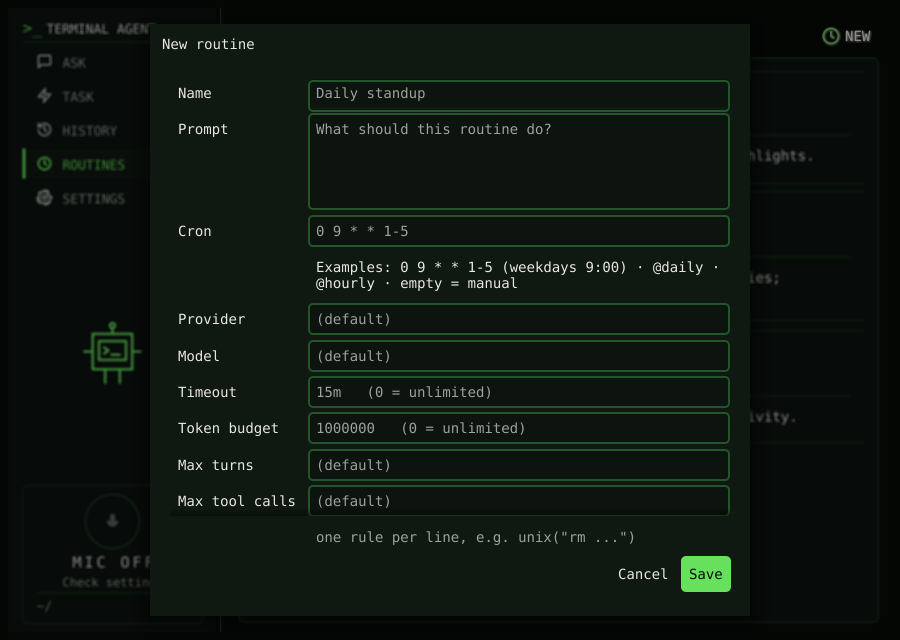
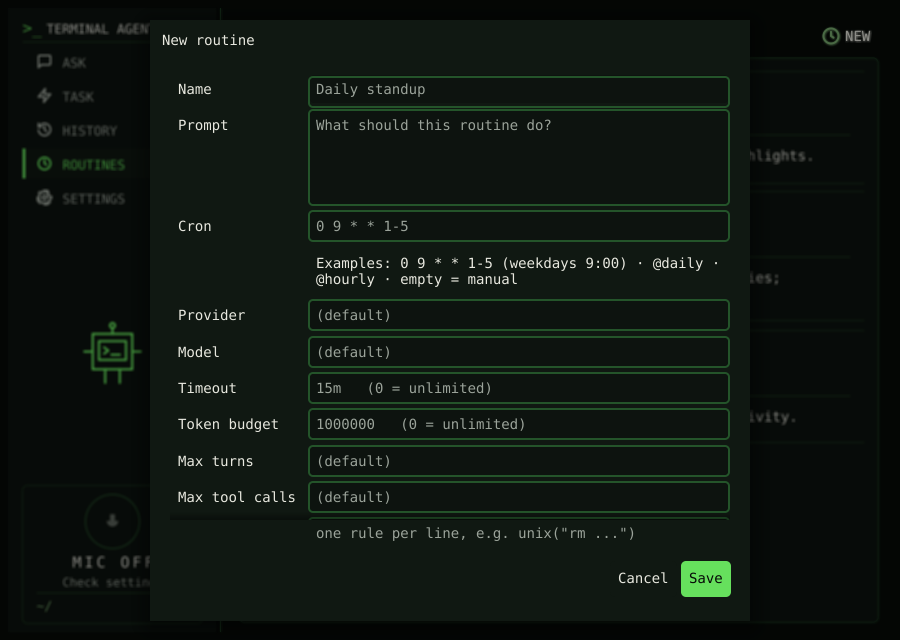
fix(routines): lean form footer and top-right detail actions
- Create/edit form: size the field scroll to the fields' natural height (capped
  to the window) so the dialog hugs its content; the error and Save/Cancel are
  pinned at the bottom with no wasted gap, and a tall form scrolls.
- Routine detail: move the Run now / Disable / Edit / Delete actions to the
  top-right of the header (beside the name); drop the bottom action bar.

Screenshots refreshed.

diff --git a/internal/gui/routine.go b/internal/gui/routine.go
@@ -136,11 +136,13 @@ func (g *App) showRoutineDetail(view appservice.RoutineView) {
 	palette := currentBrandPalette()
 	r := view.Routine
 
-	// Emphasized routine name (large, accent), with the status dot.
+	// Emphasized routine name (large, accent) with the status dot on the left, and
+	// the routine actions in the top-right corner of the header.
 	title := canvas.NewText(routineTitle(r), palette.accentGreen)
 	title.TextStyle = fyne.TextStyle{Bold: true, Monospace: true}
 	title.TextSize = theme.TextSize() + 5
-	titleRow := container.NewHBox(vCenter(newStatusDot(routineStatusColor(view.Status))), vCenter(title))
+	titleLeft := container.NewHBox(vCenter(newStatusDot(routineStatusColor(view.Status))), vCenter(title))
+	header := container.NewBorder(nil, nil, titleLeft, vCenter(g.routineHeaderActions(view)), nil)
 
 	settings := fmt.Sprintf(
 		"Status: %s\nSchedule: %s\nProvider / Model: %s / %s\nTimeout: %s\nTokens: %s\nTools: %s",
@@ -164,7 +166,7 @@ func (g *App) showRoutineDetail(view appservice.RoutineView) {
 	promptBox := borderedBox(container.NewPadded(promptBody), palette.borderBright)
 
 	objects := []fyne.CanvasObject{
-		titleRow,
+		header,
 		settingsLabel,
 		brandSeparator(),
 		brandSectionLabel("PROMPT"),
@@ -173,7 +175,6 @@ func (g *App) showRoutineDetail(view appservice.RoutineView) {
 		brandSectionLabel("RUN LOGS"),
 	}
 	objects = append(objects, g.routineLogList(r.ID)...)
-	objects = append(objects, brandSeparator(), g.routineActionBar(view))
 
 	g.popup.presentRoutineDetail(container.NewVBox(objects...))
 }
@@ -202,7 +203,9 @@ func (g *App) routineLogList(id string) []fyne.CanvasObject {
 	return rows
 }
 
-func (g *App) routineActionBar(view appservice.RoutineView) fyne.CanvasObject {
+// routineHeaderActions builds the routine action buttons shown in the top-right
+// of the detail header.
+func (g *App) routineHeaderActions(view appservice.RoutineView) fyne.CanvasObject {
 	r := view.Routine
 	runButton := widget.NewButton("Run now", func() { g.runRoutineNow(r.ID) })
 	runButton.Importance = widget.HighImportance
@@ -224,7 +227,7 @@ func (g *App) routineActionBar(view appservice.RoutineView) fyne.CanvasObject {
 	deleteButton := widget.NewButton("Delete", func() { g.confirmDeleteRoutine(r.ID) })
 	deleteButton.Importance = widget.DangerImportance
 
-	return container.NewHBox(runButton, toggleButton, editButton, layout.NewSpacer(), deleteButton)
+	return container.NewHBox(runButton, toggleButton, editButton, deleteButton)
 }
 
 func (g *App) openRoutineLog(ref appservice.RoutineLogRef) {
@@ -436,17 +439,20 @@ func (g *App) showRoutineForm(existing *routines.Routine) {
 	cancel := widget.NewButton("Cancel", func() { dlg.Hide() })
 	footer := container.NewBorder(nil, nil, nil, container.NewHBox(cancel, save))
 
-	// Scroll only the fields; keep the error message and Save/Cancel pinned at the
-	// bottom so they are always reachable on a short window.
-	fields := container.NewVScroll(container.NewVBox(form, toolsField, enabled))
+	// Pin the error + Save/Cancel at the bottom and scroll only the fields. Sizing
+	// the field scroll to the fields' natural height (capped to the window) keeps
+	// the dialog lean (no wasted gap) while the footer stays visible; a tall form
+	// scrolls instead of overflowing.
+	fields := container.NewVBox(form, toolsField, enabled)
 	bottom := container.NewVBox(errorLabel, footer)
-	content := container.NewBorder(nil, bottom, nil, nil, fields)
+	scroll := container.NewVScroll(fields)
+	scroll.SetMinSize(fyne.NewSize(560, routineScrollHeight(win, fields, bottom)))
 	title := "New routine"
 	if isEdit {
 		title = "Edit routine"
 	}
-	dlg = dialog.NewCustomWithoutButtons(title, content, win)
-	dlg.Resize(fyne.NewSize(600, routineFormHeight(win)))
+	dlg = dialog.NewCustomWithoutButtons(title, container.NewBorder(nil, bottom, nil, nil, scroll), win)
+	dlg.Resize(fyne.NewSize(600, 0))
 	dlg.SetOnClosed(g.FocusInput)
 	dlg.Show()
 }
@@ -521,11 +527,12 @@ func (g *App) showRoutineDefaultsForm() {
 	cancel := widget.NewButton("Cancel", func() { dlg.Hide() })
 	footer := container.NewBorder(nil, nil, nil, container.NewHBox(cancel, save))
 
-	fields := container.NewVScroll(container.NewVBox(enabled, form))
+	fields := container.NewVBox(enabled, form)
 	bottom := container.NewVBox(errorLabel, footer)
-	content := container.NewBorder(nil, bottom, nil, nil, fields)
-	dlg = dialog.NewCustomWithoutButtons("Routine defaults", content, win)
-	dlg.Resize(fyne.NewSize(520, routineFormHeight(win)))
+	scroll := container.NewVScroll(fields)
+	scroll.SetMinSize(fyne.NewSize(480, routineScrollHeight(win, fields, bottom)))
+	dlg = dialog.NewCustomWithoutButtons("Routine defaults", container.NewBorder(nil, bottom, nil, nil, scroll), win)
+	dlg.Resize(fyne.NewSize(520, 0))
 	dlg.Show()
 }
 
@@ -567,16 +574,20 @@ func formFieldLabel(text string) fyne.CanvasObject {
 	return widget.NewLabelWithStyle(text, fyne.TextAlignLeading, fyne.TextStyle{Bold: true})
 }
 
-// routineFormHeight sizes the create/edit dialog to fit within the window.
-func routineFormHeight(win fyne.Window) float32 {
-	available := win.Canvas().Size().Height - 48
-	if available > 640 {
-		return 640
+// routineScrollHeight sizes the scrolling field area to the fields' natural
+// height so the dialog hugs the content (no wasted space above the pinned
+// footer), capped at the window height (less the footer) so a tall form scrolls
+// instead of overflowing.
+func routineScrollHeight(win fyne.Window, fields, footer fyne.CanvasObject) float32 {
+	available := win.Canvas().Size().Height - 120 - footer.MinSize().Height
+	if available < 200 {
+		available = 200
 	}
-	if available < 360 {
-		return 360
+	natural := fields.MinSize().Height
+	if natural > available {
+		return available
 	}
-	return available
+	return natural
 }
 
 func routineTitle(r routines.Routine) string {